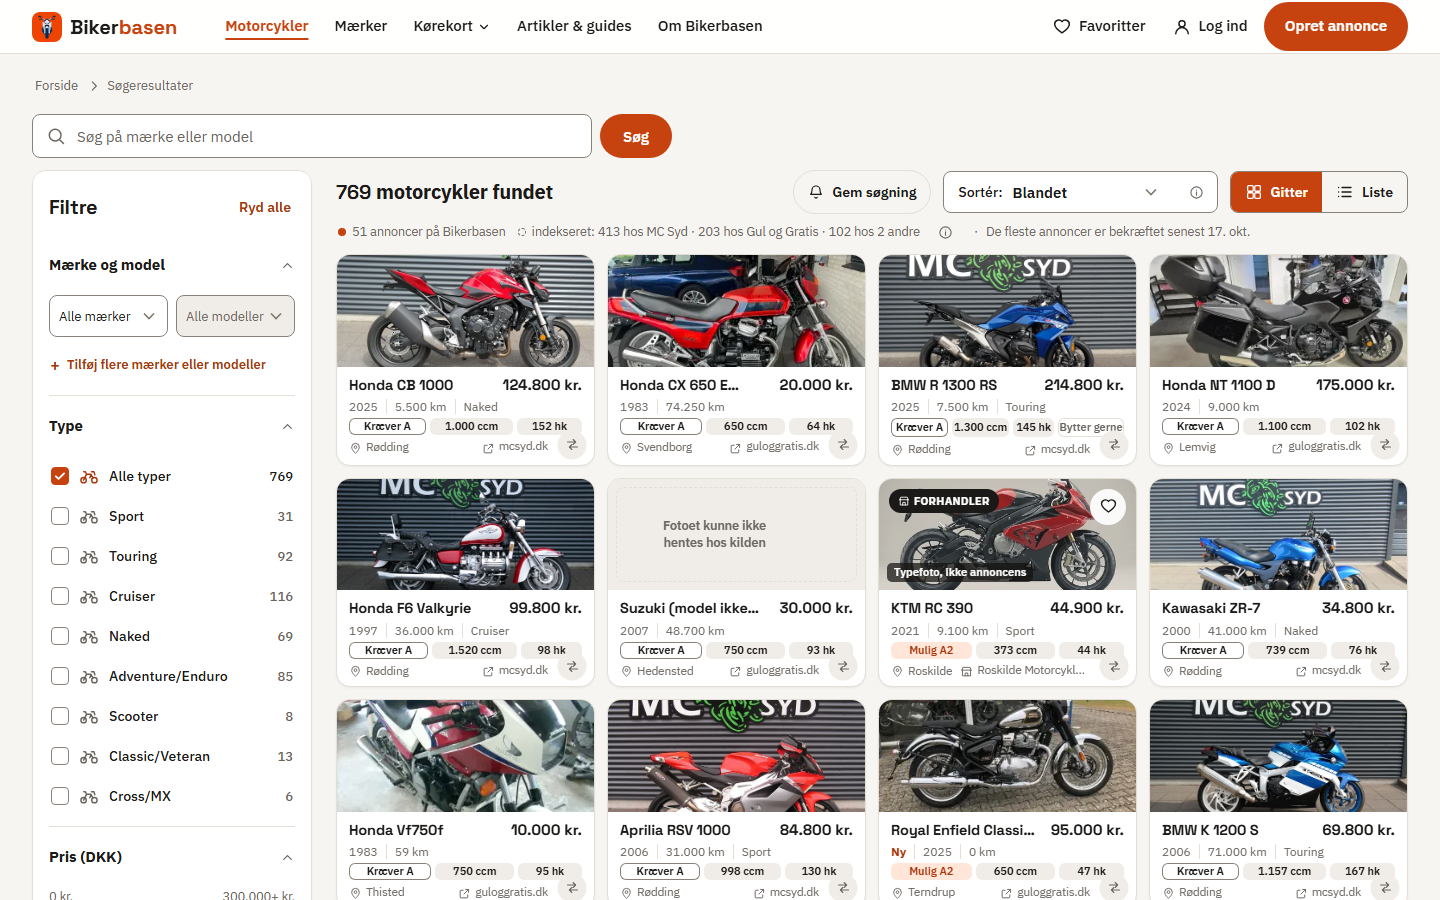
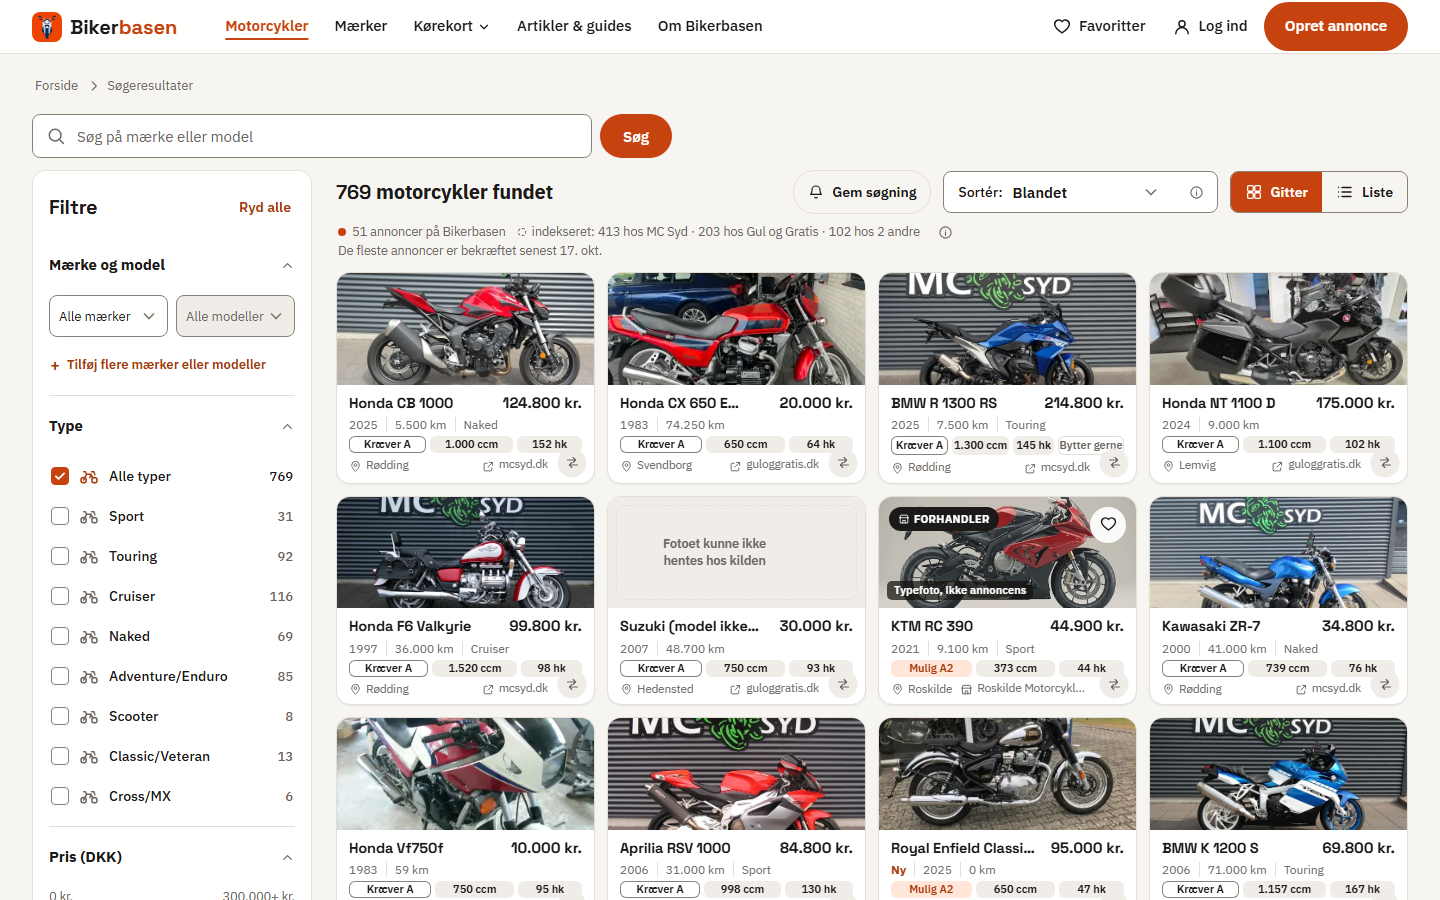
V4 søgning: byg (build -> kritisk-gen -> build) af soegning.html, endelige screenshots

Changed region(s): [[0.2188, 0.2489, 1.0, 1.0]]

diff --git a/soegning.html b/soegning.html
@@ -3,7 +3,7 @@
 <head>
 <meta charset="UTF-8">
 <meta name="viewport" content="width=device-width, initial-scale=1">
-<meta http-equiv="Content-Security-Policy" content="default-src 'self'; script-src 'self' 'sha256-6Y4He0rNRnVsqcAgohn83tvE7QXC5+0d2S2e45tTPQg=' 'sha256-aZ3fqg7wpahNVkLhLNNDFGvqgYnGvQvfU76nPYq8sJo=' 'sha256-ZWZ6I2atnUJt7Z9iiyOnfN5TM0KWZw1svno7NnfDIqA=' 'sha256-Js4Mp8/IDJ3p3l0wX6kElnTtV9M0Df9WcgsP+1jjEHw=' 'sha256-vNyNPv+8V25tVSzzB+ZagkGrk/mKMjubthLe2qclVc4=' https://www.googletagmanager.com; style-src 'self' 'unsafe-inline'; font-src 'self'; img-src 'self' data: blob: https://hkcjrwglwurdjnobewzb.supabase.co https://www.googletagmanager.com https://*.google-analytics.com https://images.danbase.dk https://assets.guloggratis.dk https://www.guloggratis.dk https://www.123mc.dk https://www.jensensmc.dk; connect-src 'self' https://hkcjrwglwurdjnobewzb.supabase.co https://www.googletagmanager.com https://*.google-analytics.com https://*.analytics.google.com; object-src 'none'; base-uri 'self'; form-action 'self'">
+<meta http-equiv="Content-Security-Policy" content="default-src 'self'; script-src 'self' 'sha256-6Y4He0rNRnVsqcAgohn83tvE7QXC5+0d2S2e45tTPQg=' 'sha256-aZ3fqg7wpahNVkLhLNNDFGvqgYnGvQvfU76nPYq8sJo=' 'sha256-ZWZ6I2atnUJt7Z9iiyOnfN5TM0KWZw1svno7NnfDIqA=' 'sha256-Js4Mp8/IDJ3p3l0wX6kElnTtV9M0Df9WcgsP+1jjEHw=' 'sha256-Ssk+LcAzQHvFhMvAxEWIw25Jt0DEpEVEkbWksBB5Ny0=' https://www.googletagmanager.com; style-src 'self' 'unsafe-inline'; font-src 'self'; img-src 'self' data: blob: https://hkcjrwglwurdjnobewzb.supabase.co https://www.googletagmanager.com https://*.google-analytics.com https://images.danbase.dk https://assets.guloggratis.dk https://www.guloggratis.dk https://www.123mc.dk https://www.jensensmc.dk; connect-src 'self' https://hkcjrwglwurdjnobewzb.supabase.co https://www.googletagmanager.com https://*.google-analytics.com https://*.analytics.google.com; object-src 'none'; base-uri 'self'; form-action 'self'">
 <meta name="referrer" content="strict-origin-when-cross-origin">
 <!-- Titel og beskrivelse er DE SAMME, som js/seo.js seoSearchResults() saetter
      for den ufiltrerede standardsoegning (overskriften "Brugte motorcykler til
@@ -200,9 +200,9 @@ try{
 
 
 
-<link rel="stylesheet" href="css/styles.css?v=01274798">
-<link rel="stylesheet" href="css/p-brand-logo.css?v=01274798">
-<link rel="stylesheet" href="css/p-soegning.css?v=01274798">
+<link rel="stylesheet" href="css/styles.css?v=35c7db79">
+<link rel="stylesheet" href="css/p-brand-logo.css?v=35c7db79">
+<link rel="stylesheet" href="css/p-soegning.css?v=35c7db79">
 
 
 
@@ -1121,33 +1121,33 @@ try{
   </div>
 </footer>
 
-<script defer src="js/security.js?v=01274798"></script>
-<script defer src="js/supabase-config.js?v=01274798"></script>
-<script defer src="js/supabase-api.js?v=01274798"></script>
-<script defer src="js/icons.js?v=01274798"></script>
+<script defer src="js/security.js?v=35c7db79"></script>
+<script defer src="js/supabase-config.js?v=35c7db79"></script>
+<script defer src="js/supabase-api.js?v=35c7db79"></script>
+<script defer src="js/icons.js?v=35c7db79"></script>
 <!-- js/postnumre.js (40 KB, 1089 rækker) lå her, men ingen af søgesidens
      scripts slår et postnummer op — POSTNUMRE bruges kun ved oprettelse og
      redigering af annoncer. Filen blev altså hentet, parset og evalueret på
      hovedtråden uden at blive brugt. Fjernet herfra; de sider der faktisk
      bruger den (opret-annonce, dashboard, mine-annoncer …) loader den stadig. -->
-<script defer src="js/data.js?v=01274798"></script>
-<script defer src="js/store.js?v=01274798"></script>
-<script defer src="js/maaling.js?v=01274798"></script>
+<script defer src="js/data.js?v=35c7db79"></script>
+<script defer src="js/store.js?v=35c7db79"></script>
+<script defer src="js/maaling.js?v=35c7db79"></script>
 <!-- js/filtrering.js: ÉT sted, hvor et filter afgør, hvad der er et træf.
      Skal loades EFTER js/data.js (den bruger passerKoerekort og
      hkEllerNull) og FØR js/search.js, som kalder Filtrering.* på
      topniveau i sin filterkæde. Se work/DECISIONS.md, "Ét filterhus". -->
-<script defer src="js/filtrering.js?v=01274798"></script>
-<script defer src="js/backend-bridge.js?v=01274798"></script>
-<script defer src="js/components.js?v=01274798"></script>
+<script defer src="js/filtrering.js?v=35c7db79"></script>
+<script defer src="js/backend-bridge.js?v=35c7db79"></script>
+<script defer src="js/components.js?v=35c7db79"></script>
 <!-- Sortering EFTER components.js (bruger koerekortMaerkat), FØR search.js
      (som læser Sortering ved indlæsning). Samme rækkefølge som
      browserModules() i scripts/shared.js — se js/sortering.js. -->
-<script defer src="js/sortering.js?v=01274798"></script>
-<script defer src="js/seo.js?v=01274798"></script>
-<script defer src="js/brand-logos-data.js?v=01274798"></script>
-<script defer src="js/brand-logos.js?v=01274798"></script>
-<script defer src="js/search.js?v=01274798"></script>
+<script defer src="js/sortering.js?v=35c7db79"></script>
+<script defer src="js/seo.js?v=35c7db79"></script>
+<script defer src="js/brand-logos-data.js?v=35c7db79"></script>
+<script defer src="js/brand-logos.js?v=35c7db79"></script>
+<script defer src="js/search.js?v=35c7db79"></script>
 <!--cookie:start-->
 <dialog class="cookie-modal" id="cookie-banner" aria-labelledby="cookie-modal-titel" aria-describedby="cookie-modal-tekst">
   <div class="cookie-modal-indhold">
@@ -1159,7 +1159,7 @@ try{
     </div>
   </div>
 </dialog>
-<script>try{if(!localStorage.getItem("bb_cookie_consent")){var d=document.getElementById("cookie-banner");var l=/\/(privatlivspolitik|vilkaar|om-indeksering)(\.html)?$/.test(location.pathname);if(d&&!l){if(d.showModal){d.showModal();}else{d.setAttribute("open","");}var c=getComputedStyle(d);if(c.display==="none"||c.visibility==="hidden"||!d.offsetWidth){d.close&&d.close();d.removeAttribute("open");d.setAttribute("hidden","");}}}}catch(e){}</script>
+<script>try{if(!localStorage.getItem("bb_cookie_consent")){var d=document.getElementById("cookie-banner");var l=/\/(privatlivspolitik|vilkaar|om-indeksering)(\.html)?$/.test(location.pathname);if(d&&!l){if(d.showModal){d.showModal();}else{d.setAttribute("open","");}var z=function(){if(!d.isConnected||!d.open)return 1;var c=getComputedStyle(d);if(c.display==="none"||c.visibility==="hidden"||!d.offsetWidth){d.close&&d.close();d.removeAttribute("open");d.setAttribute("hidden","");return 1;}};if(!z()){var n=0,t=setInterval(function(){if(z()||++n>48)clearInterval(t);},250);document.addEventListener("visibilitychange",z);}}}}catch(e){}</script>
 <!--cookie:end-->
 </body>
 </html>
